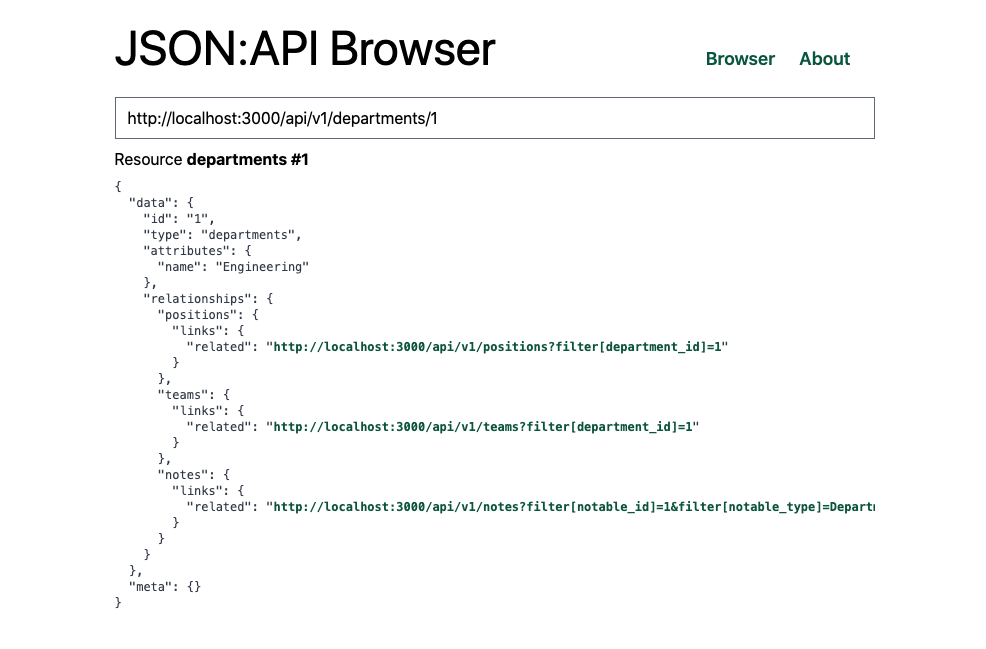
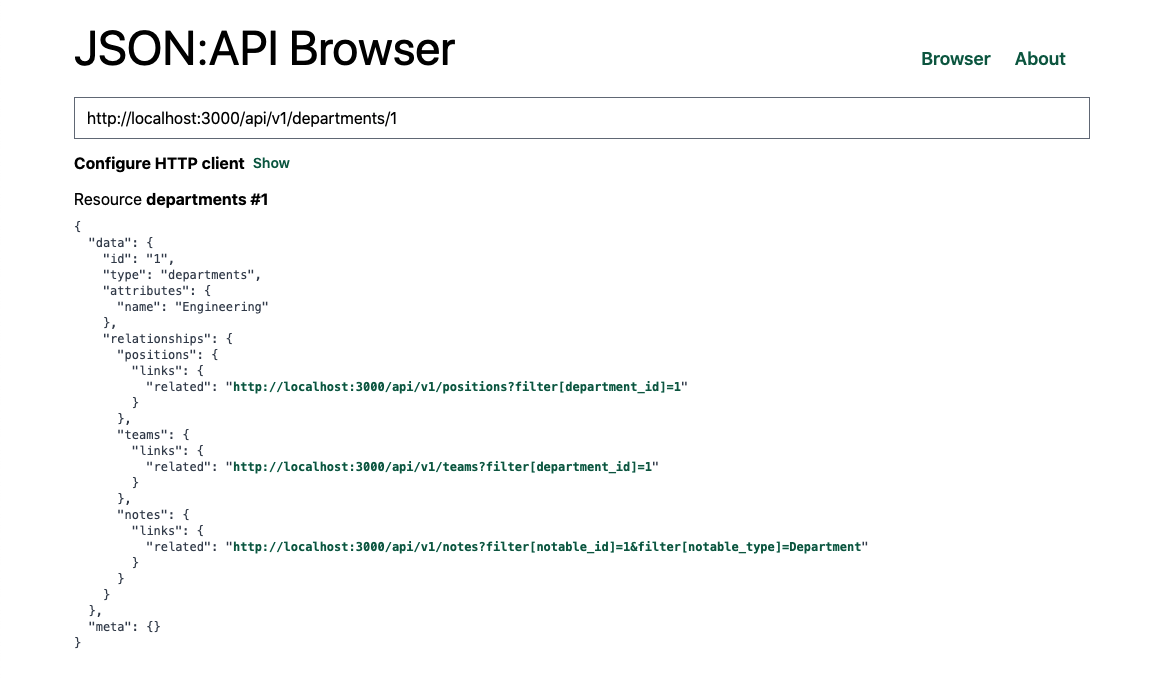
feat(#4): configure HTTP client (#5)
* Update package "jsonapi-metal-client".

* Fix link in resource object.

* Remove `console.log`.

* Configure HTTP client.

* Update screenshot.

Changed region(s): [[0.0609, 0.0308, 0.9128, 0.832], [0.0609, 0.8937, 0.1826, 0.9245]]

diff --git a/src/components/ClientConfigurationFormHeaders.vue b/src/components/ClientConfigurationFormHeaders.vue
@@ -1,0 +1,95 @@
+<script setup lang="ts">
+  import { ref, watch, nextTick, onBeforeUpdate } from 'vue'
+  import { RequestConfigurationHeader } from '../models/RequestConfiguration'
+
+  const props = defineProps<{
+    modelValue: RequestConfigurationHeader[]
+  }>()
+  const emit = defineEmits<{
+    (e: 'update:modelValue', modelValue: RequestConfigurationHeader[]): void
+  }>()
+
+  const headerNameInputs = ref<HTMLInputElement[]>([])
+
+  onBeforeUpdate(() => {
+    headerNameInputs.value = []
+  })
+
+  watch(() => props.modelValue, async (newModelValue, oldModelValue) => {
+    // When header is added.
+    if (newModelValue.length - oldModelValue.length === 1) {
+      await nextTick()
+      // Focus on last header.
+      const index = newModelValue.length - 1;
+      headerNameInputs.value[index].focus()
+    }
+  })
+
+  const onAdd = () => {
+    emit('update:modelValue', [
+      ...props.modelValue, { name: '', value: '' }
+    ])
+  }
+
+  const onPropertyChange = (index: number, name: keyof RequestConfigurationHeader, value: string) => {
+    // TODO: Add unique valudation on header name since HTTP header are case insentitive.
+    emit('update:modelValue', props.modelValue.map((header, i) => {
+        if (index === i) {
+          return { ...header, [name]: value }
+        } else {
+          return header
+        }
+      })
+    )
+  }
+
+  const onRemove = (index: number) => {
+    emit('update:modelValue', props.modelValue.filter((_, i) => i !== index))
+  }
+</script>
+
+<template>
+  <div>
+    <div class="mb-2">
+      <div class="mb-2">
+        <label class="mr-1 font-semibold">headers</label>
+        <div v-for="(header, index) in modelValue" class="flex sm:flex-row flex-col sm:items-center space-between sm:my-1 my-2">
+          <div class="flex-1 sm:mr-1 sm:mb-0 mb-1">
+            <input
+              class="w-full text-sm py-1 px-2"
+              type="text"
+              name=""
+              id=""
+              placeholder="Header name"
+              :value="header.name"
+              :ref="(element) => headerNameInputs[index] = (element as HTMLInputElement)"
+              @change="onPropertyChange(index, 'name', ($event.target as HTMLInputElement).value)" />
+          </div>
+          <div class="sm:w-8/12 flex">
+            <input
+              class="w-full text-sm py-1 px-2"
+              type="text"
+              name=""
+              id=""
+              placeholder="Header value"
+              :value="header.value"
+              @change="onPropertyChange(index, 'value', ($event.target as HTMLInputElement).value)" />
+            <!-- TODO: Button style. -->
+            <button class="text-red-500 mx-2" @click="onRemove(index)" title="Remove header">
+              <svg xmlns="http://www.w3.org/2000/svg" class="h-6 w-6" fill="none" viewBox="0 0 24 24" stroke="currentColor">
+                <path stroke-linecap="round" stroke-linejoin="round" stroke-width="2" d="M6 18L18 6M6 6l12 12" />
+              </svg>
+            </button>
+          </div>
+        </div>
+      </div>
+    </div>
+    <!-- TODO: Button style. -->
+    <button class="flex items-center text-primary-800 hover:text-primary-900 font-semibold text-sm py-1" @click="onAdd" title="Add header">
+      <svg xmlns="http://www.w3.org/2000/svg" class="h-3 w-3 mr-1" fill="none" viewBox="0 0 24 24" stroke="currentColor">
+        <path stroke-linecap="round" stroke-linejoin="round" stroke-width="2" d="M12 4v16m8-8H4" />
+      </svg>
+      Add
+    </button>
+  </div>
+</template>

diff --git a/src/components/ClientConfigurationForm.vue b/src/components/ClientConfigurationForm.vue
@@ -1,0 +1,91 @@
+<script setup lang="ts">
+  import { ref, watch, nextTick, onBeforeUpdate } from 'vue'
+  import ClientConfigurationFormHeaders from './ClientConfigurationFormHeaders.vue'
+  import { RequestConfiguration, RequestConfigurationHeader, credentialsValues, modeValues } from '../models/RequestConfiguration'
+
+  // TODO: Add unique valudation on header name since HTTP header are case insentitive.
+
+  const props = defineProps<{
+    modelValue: RequestConfiguration
+  }>()
+  const emit = defineEmits<{
+    (e: 'update:modelValue', modelValue: RequestConfiguration): void
+  }>()
+
+  const expended = ref(false)
+
+  const onCredentialsInputChange = (event: Event) => {
+    if (event.target) {
+      const value = (event.target as HTMLSelectElement).value as RequestInit['credentials']
+      if (credentialsValues.includes(value)) {
+        emit('update:modelValue', {
+          ...props.modelValue,
+          credentials: value
+        })
+      }
+    }
+  }
+
+  const onModeInputChange = (event: Event) => {
+    if (event.target) {
+      const value = (event.target as HTMLSelectElement).value as RequestInit['mode']
+      if (modeValues.includes(value)) {
+        emit('update:modelValue', {
+          ...props.modelValue,
+          mode: value
+        })
+      }
+    }
+  }
+
+  const onHeadersChange = (headers: RequestConfigurationHeader[]) => {
+    emit('update:modelValue', {
+      ...props.modelValue,
+      headers: [
+        ...headers
+      ]
+    })
+  }
+</script>
+
+<template>
+  <div>
+    <div class="flex items-center mb-3">
+      <h1 class="font-bold">
+        Configure HTTP client
+      </h1>
+      <!-- TODO: Button style. -->
+      <button
+        class="text-primary-800 hover:text-primary-900 font-semibold text-sm mx-2"
+        @click="expended = !expended"
+        :title="expended ? 'Hide HTTP client configuration form' : 'Show HTTP client configuration form'">
+        {{ expended ? 'Hide' : 'Show' }}
+      </button>
+    </div>
+    <div v-if="expended">
+      <div class="mb-2">
+        <div class="mb-1 -m-1 flex flex-wrap">
+          <div class="m-1 flex items-center">
+            <label class="mr-1 font-semibold" for="credentials">credentials</label>
+            <select class="text-sm py-1 pl-1" id="credentials" :value="modelValue.credentials" @change="onCredentialsInputChange">
+              <option v-for="value in credentialsValues" :key="value" :value="value">
+                {{value}}
+              </option>
+            </select>
+          </div>
+          <div class="m-1 flex items-center">
+            <label class="mr-1 font-semibold" for="mode">mode</label>
+            <select class="text-sm py-1 pl-1" id="mode" :value="modelValue.mode" @change="onModeInputChange">
+              <option v-for="value in modeValues" :key="value" :value="value">
+                {{value}}
+              </option>
+            </select>
+          </div>
+        </div>
+        <ClientConfigurationFormHeaders
+          :modelValue="modelValue.headers"
+          @update:modelValue="onHeadersChange" />
+      </div>
+    </div>
+  </div>
+</template>

diff --git a/src/views/Browser.vue b/src/views/Browser.vue
@@ -1,14 +1,27 @@
 <script setup lang="ts">
-import { ref } from 'vue'
+import { ref, watch } from 'vue'
 import { JsonApi, HttpAdapters } from 'jsonapi-metal-client'
 import { useJsonApiBrowserHistory } from '../composables/useJsonApiBrowserHistory'
+import ClientConfigurationForm from '../components/ClientConfigurationForm.vue'
 import BrowserControls from '../components/BrowserControls.vue'
 import JsonApiDocumentSource from '../components/JsonApiDocument/Source'
 import JsonApiDocumentDescription from '../components/JsonApiDocument/Description'
+import { RequestConfiguration } from '../models/RequestConfiguration'
 
-const httpAdapter = new HttpAdapters.FetchHttpAdapter(window.fetch.bind(window))
+const httpAdapter = new HttpAdapters.FetchHttpAdapter(
+  window.fetch.bind(window),
+  {
+    credentials: 'omit',
+    mode: 'cors'
+  }
+);
 const client = new JsonApi.Client(httpAdapter)
 
+const requestConfiguration = ref<RequestConfiguration>({
+  credentials: httpAdapter.defaultInit?.credentials,
+  mode: httpAdapter.defaultInit?.mode,
+  headers: []
+})
 const location = ref<string>('')
 const requested = ref<boolean>(false)
 const isSuccess = ref<boolean>(true)
@@ -23,6 +36,7 @@ const onNavigate = (url: string) => {
   pushState(url)
   navigate(url)
 }
+
 const navigate = (url: string) => {
   location.value = url
   client.fetch(url)
@@ -37,18 +51,34 @@ const navigate = (url: string) => {
       document.value = undefined
     })
 }
+
+// When request configuration change.
+watch(() => requestConfiguration.value, () => {
+  // Set client default headers.
+  client.defaultHttpHeaders = requestConfiguration.value.headers.reduce<Record<string, string>>((headers, header) => {
+    return { ...headers, [header.name]: header.value }
+  }, {});
+  // Set client default init.
+  const { credentials, mode } = requestConfiguration.value
+  httpAdapter.defaultInit = { credentials, mode }
+});
+
+
 </script>
 
 <template>
   <div class="md:container md:mx-auto px-1">
-    <div class="my-2">
-      <div class="my-2">
+    <div class="my-3">
+      <div class="my-3">
         <BrowserControls
           @navigate="onNavigate"
           v-model:location="location" />
       </div>
+      <div class="my-2">
+        <ClientConfigurationForm v-model="requestConfiguration" />
+      </div>
     </div>
-    <div class="my-2">
+    <div class="my-3">
       <template v-if="!requested">
         <p class="text-gray-400">No request made yet.</p>
       </template>

diff --git a/src/models/RequestConfiguration.ts b/src/models/RequestConfiguration.ts
@@ -1,0 +1,13 @@
+export const credentialsValues: RequestInit['credentials'][] = ["include", "omit", "same-origin"];
+export const modeValues: RequestInit['mode'][] = ["cors", "navigate", "no-cors", "same-origin"];
+
+export type RequestConfigurationHeader = {
+  name: string
+  value: string
+}
+
+export type RequestConfiguration = {
+  headers: RequestConfigurationHeader[],
+  credentials: RequestInit['credentials'],
+  mode: RequestInit['mode']
+}

diff --git a/src/composables/useJsonApiBrowserHistory.ts b/src/composables/useJsonApiBrowserHistory.ts
@@ -29,7 +29,6 @@ export function useJsonApiBrowserHistory(
     window.addEventListener('popstate', onPopState)
     // Handle browser refresh.
     if (isJsonApiBrowserHistoryState(window.history.state)) {
-      console.log('Handle browser refresh')
       onHistoryChange(window.history.state.location)
     }
   })
